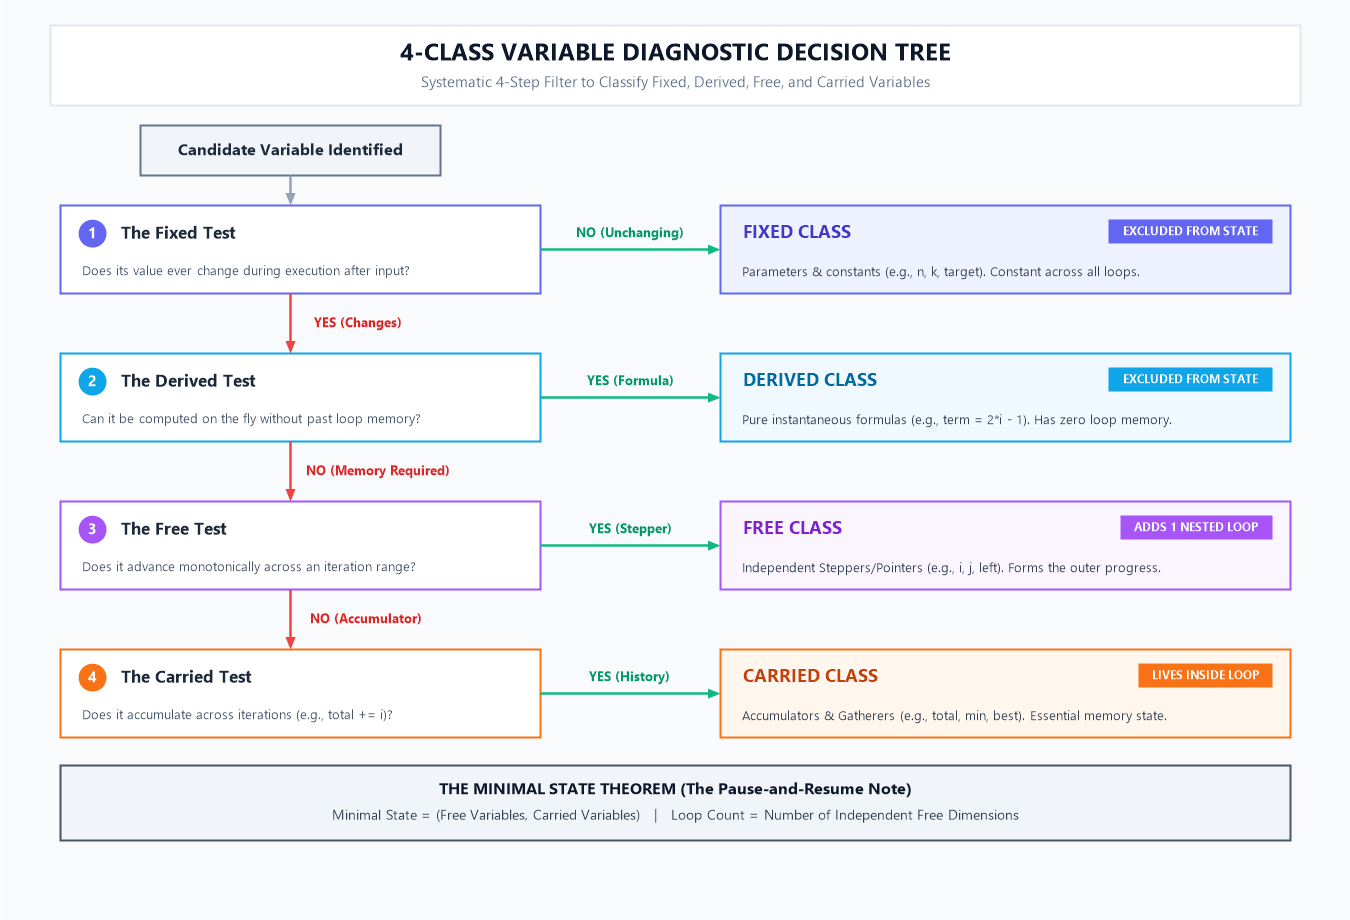
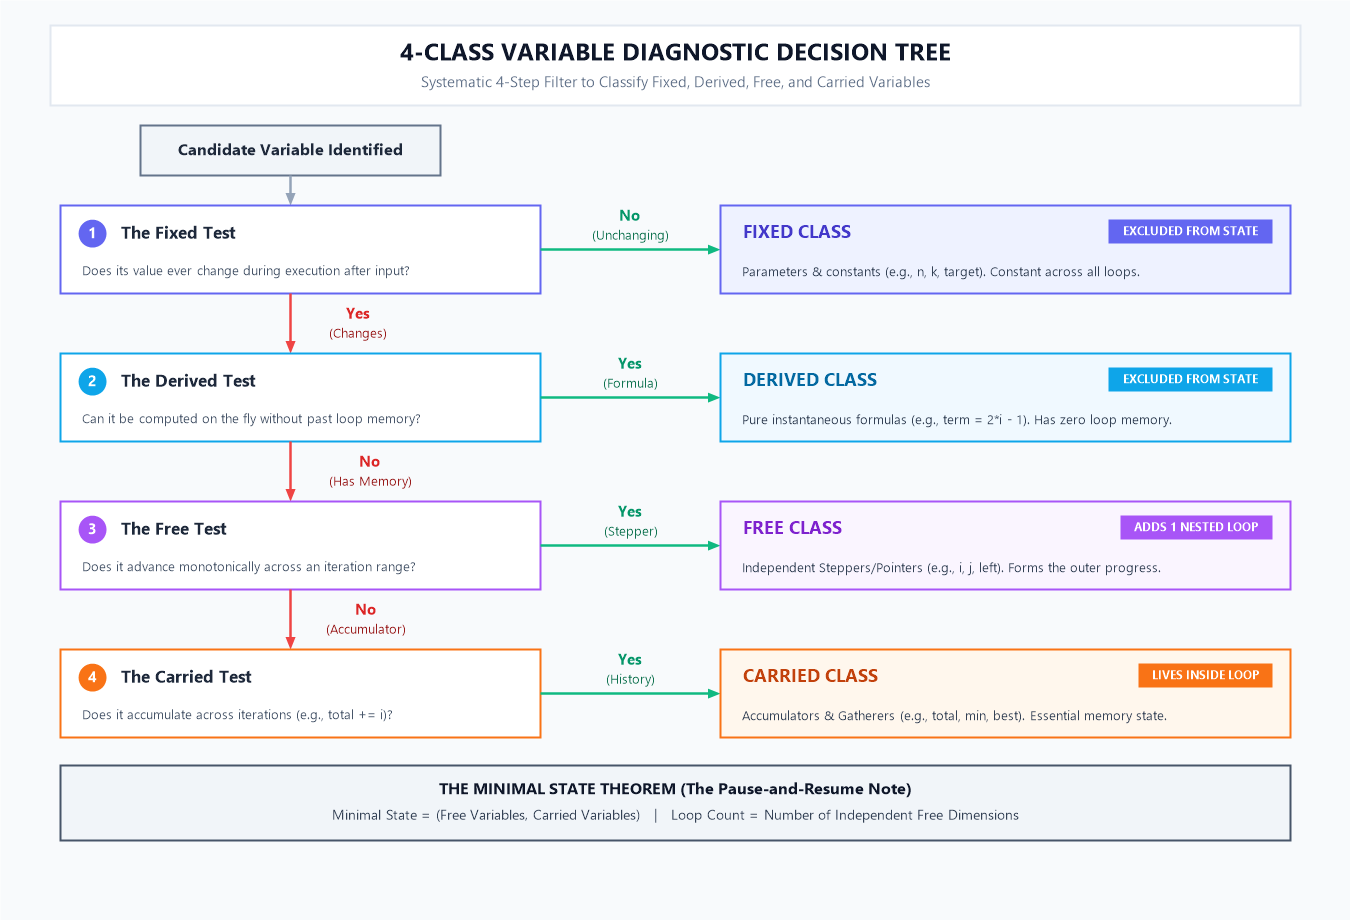
Update decision tree image with stacked two-line branch labels for maximum clarity

diff --git a/chat.md b/chat.md
@@ -1214,3 +1214,28 @@ This document records all instructions, architectural decisions, and agent conve
 2. **Synchronized Output**:
    - Re-rendered [`Skills_Input/Templates/images/variable_classification_decision_tree.png`](Skills_Input/Templates/images/variable_classification_decision_tree.png).
    - Committed and pushed changes to GitHub `origin/main`.
+
+
+---
+
+## Session 67: Stacked Two-Line Labeling for Branch Conditions in Diagram
+
+### User Request
+> "in the image write like this 
+> 
+>       No
+> (Unchanging)
+> 
+> by this way all of the text will be clear"
+
+### Actions Taken & Implementation Summary
+1. **Implemented Stacked Two-Line Connector Labels**:
+   - Replaced all horizontal single-line connector annotations (`No (Unchanging)`, `Yes (Changes)`, etc.) with clean 2-line vertically stacked typography:
+     - Top line: Bold condition keyword (`No` or `Yes`).
+     - Bottom line: Descriptive clarification in parentheses (`(Unchanging)`, `(Changes)`, `(Formula)`, `(Has Memory)`, `(Stepper)`, `(Accumulator)`, `(History)`).
+2. **Enhanced Readability & Visual Balance**:
+   - Stacked labels naturally fit within the horizontal gap between question cards and class outcome cards.
+   - Preserved color-coded routing cues (green for `Yes`, red for `No`) with high-contrast text rendering.
+3. **Re-rendered & Synchronized**:
+   - Updated [`Skills_Input/Templates/images/variable_classification_decision_tree.png`](Skills_Input/Templates/images/variable_classification_decision_tree.png).
+   - Committed and pushed all updates to GitHub `origin/main`.
